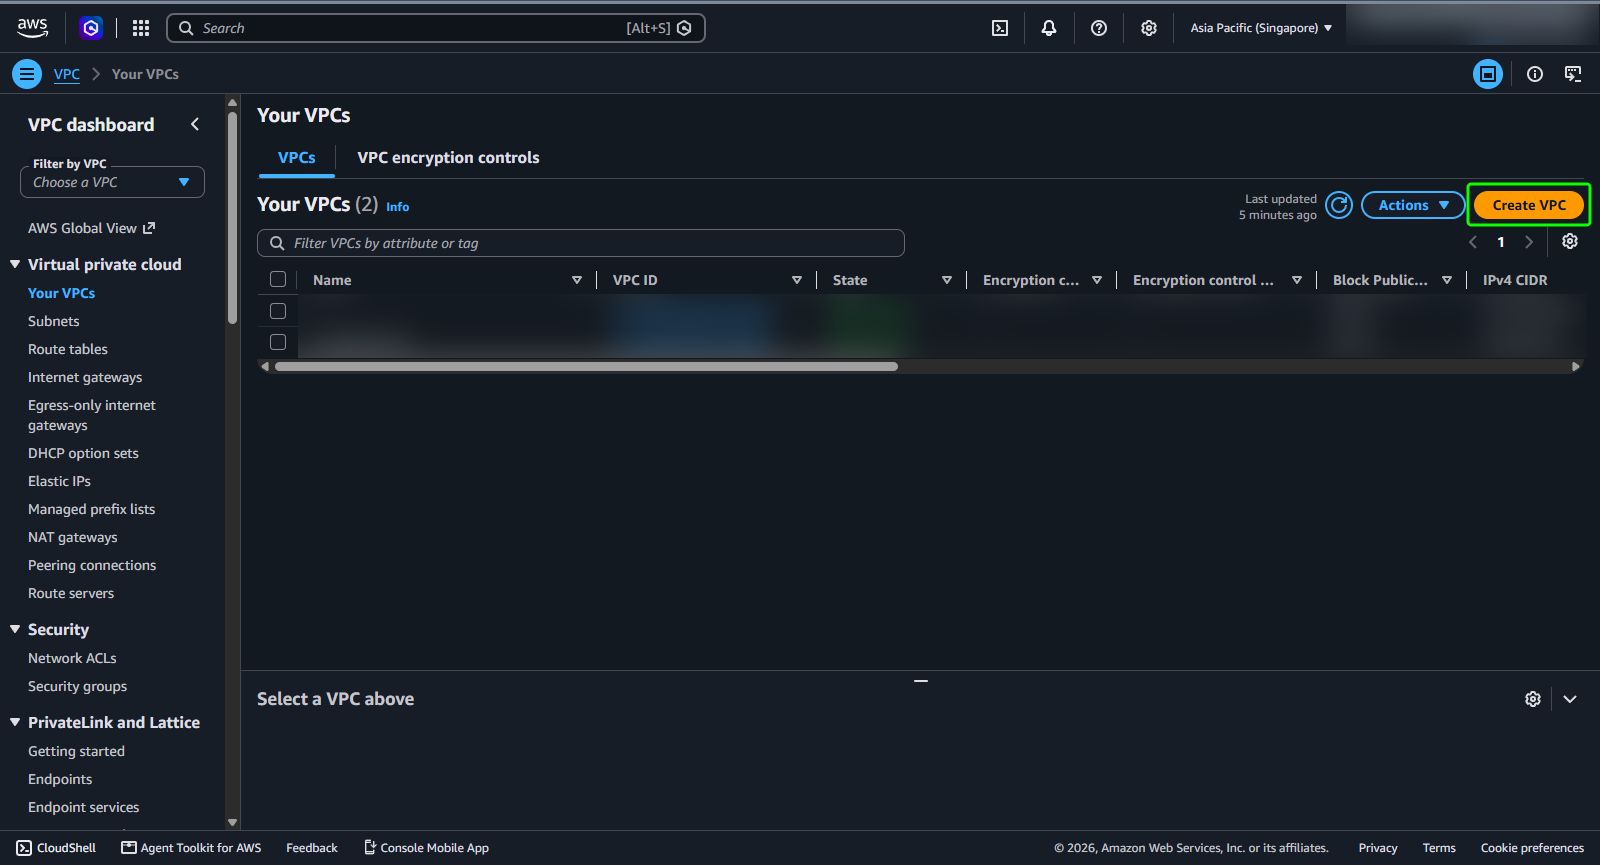
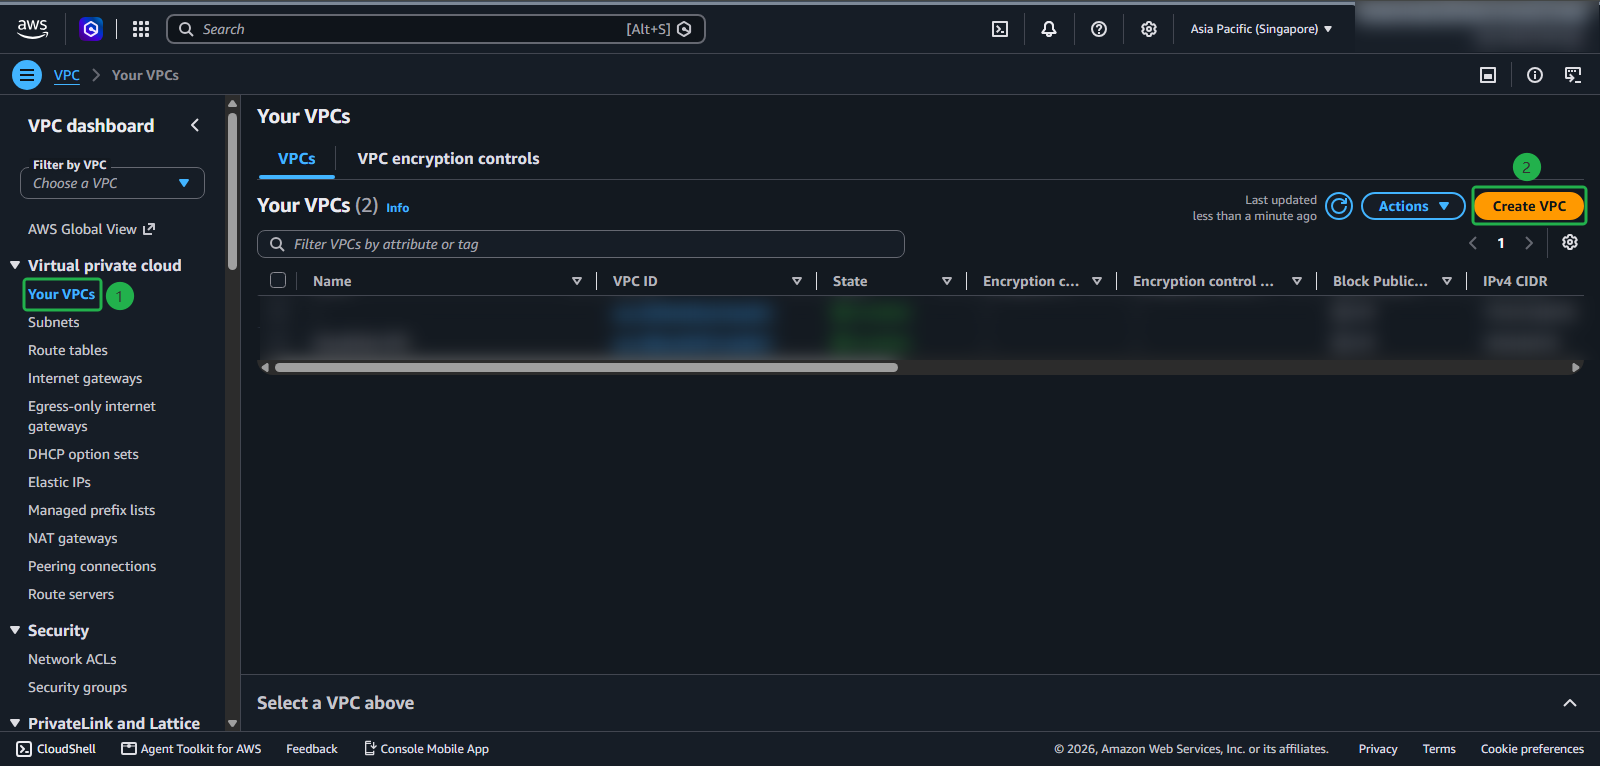
Redo 2.1 with new VPC and #22b14c annotations

diff --git a/content/2-preparation/2-2-createec2sg/_index.vi.md b/content/2-preparation/2-2-createec2sg/_index.vi.md
@@ -1,34 +1,71 @@
 ---
-title : "Tạo EC2 Security Group"
+title : "Tạo Security Group cho EC2"
 weight : 2
 chapter : false
 pre : " <b> 2.2. </b> "
 ---
 
+#### Tổng quan
 
-#### Tạo EC2 security group bằng  giao diện AWS console:  
-1. Truy cập giao diện [EC2 console](https://us-east-1.console.aws.amazon.com/ec2/home?region=us-east-1#Home:).
-2. Chọn **Security Groups**.
-3. Chọn **Create Security Group**.
+Ở bước này, bạn tạo hai security group cho các EC2 instance:
 
-    ![Create EC2 SG](/images/preparation/2/1.png)
+| Security group | Gắn vào | Inbound rule |
+|---|---|---|
+| `bastion-sg` | Bastion host | SSH (22) từ **My IP** |
+| `app-sg` | App server | SSH (22) từ **bastion-sg** |
 
-4. Tại mục **VPC**, chọn VPC bạn muốn tạo security group.
-5. Tại mục **Security group name**, nhập tên cho security group.
-6. Tại mục **Description**, nhập mô tả cho security group.
+Chỉ máy tính của bạn kết nối được tới bastion host, và chỉ bastion host kết nối được tới App server.
 
-    ![Create EC2 SG](/images/preparation/2/2.png)
+{{% notice info %}}
+`app-sg` dùng **một security group khác làm nguồn** thay vì địa chỉ IP. Mọi instance được gắn `bastion-sg` đều được phép kết nối, kể cả khi địa chỉ IP của instance đó thay đổi.
+{{% /notice %}}
 
-7. Cấu hình Inbound Rule
+#### Tạo bastion-sg
 
-    ![Create EC2 SG](/images/preparation/2/3.png)
+1. Mở [Amazon EC2 console](https://console.aws.amazon.com/ec2/), chọn **Security Groups** trong mục **Network & Security**, sau đó chọn **Create security group**.
 
-8. Cấu hình Outbound Rule
+    ![Create security group](/images/2-preparation/2.2/1.png)
 
-    ![Create EC2 SG](/images/preparation/2/4.png)
+2. Trong **Basic details**:
+    - (1) **Security group name**: `bastion-sg`
+    - (2) **Description**: `Allow SSH from my IP to bastion host`
+    - (3) **VPC**: `rdspg-lab-vpc`
 
-9. Click **Create**.
+    ![bastion-sg basic details](/images/2-preparation/2.2/2.png)
 
-    ![Create EC2 SG](/images/preparation/2/5.png)
+{{% notice warning %}}
+Ô **VPC** mặc định là VPC default. Hãy chắc chắn bạn chọn `rdspg-lab-vpc`. Tên và mô tả của security group không thể sửa sau khi tạo.
+{{% /notice %}}
 
-***Bạn đã tạo thành công security group cho EC2 instance.***
+3. Trong **Inbound rules**, chọn **Add rule**: (1) **Type**: `SSH`, (2) **Source type**: `My IP`.
+
+    ![bastion-sg inbound rule](/images/2-preparation/2.2/3.png)
+
+4. (1) Giữ mặc định **Outbound rules**. (2) Chọn **Create security group**.
+
+    ![bastion-sg outbound rule](/images/2-preparation/2.2/4.png)
+
+5. `bastion-sg` đã được tạo.
+
+    ![bastion-sg created](/images/2-preparation/2.2/5.png)
+
+{{% notice tip %}}
+Địa chỉ IP công khai của bạn có thể thay đổi. Nếu sau này không SSH được vào bastion host, hãy sửa inbound rule này và chọn lại **My IP**.
+{{% /notice %}}
+
+#### Tạo app-sg
+
+6. Chọn **Create security group** một lần nữa. Trong **Basic details**:
+    - (1) **Security group name**: `app-sg`
+    - (2) **Description**: `Allow SSH from bastion host to app server`
+    - (3) **VPC**: `rdspg-lab-vpc`
+
+    ![app-sg basic details](/images/2-preparation/2.2/6.png)
+
+7. Trong **Inbound rules**, chọn **Add rule**: (1) **Type**: `SSH`, (2) **Source type**: `Custom`, (3) **Source**: chọn `bastion-sg`.
+
+    ![app-sg inbound rule](/images/2-preparation/2.2/7.png)
+
+8. Giữ mặc định outbound rules và chọn **Create security group**. Inbound rule của `app-sg` chỉ cho phép SSH từ `bastion-sg`.
+
+    ![app-sg created](/images/2-preparation/2.2/8.png)

diff --git a/content/2-preparation/2-2-createec2sg/_index.md b/content/2-preparation/2-2-createec2sg/_index.md
@@ -1,36 +1,71 @@
 ---
-title : "Create EC2 Security Group"
+title : "Create EC2 Security Groups"
 weight : 2
 chapter : false
 pre : " <b> 2.2. </b> "
 ---
 
+#### Overview
 
+In this step, you create two security groups for the EC2 instances:
 
-#### To create an EC2 security group in the AWS console:
+| Security group | Attached to | Inbound rule |
+|---|---|---|
+| `bastion-sg` | Bastion host | SSH (22) from **My IP** |
+| `app-sg` | App server | SSH (22) from **bastion-sg** |
 
-1. Go to the [EC2 console](https://us-east-1.console.aws.amazon.com/ec2/home?region=us-east-1#Home:).
-2. In the navigation pane, choose **Security Groups**.
-3. Choose Create Security Group.
+Only your computer can reach the bastion host, and only the bastion host can reach the App server.
 
-    ![Create EC2 SG](/images/preparation/2/1.png)
+{{% notice info %}}
+`app-sg` uses another **security group as the source** instead of an IP address. Any instance that has `bastion-sg` attached is allowed, even if its IP address changes.
+{{% /notice %}}
 
-4. For **VPC**, choose the VPC where you want to create the security group.
-5. For **Security group name**, enter a descriptive name for the security group.
-6. For **Description**, enter a description for the security group.
+#### Create bastion-sg
 
-    ![Create EC2 SG](/images/preparation/2/2.png)
+1. Open the [Amazon EC2 console](https://console.aws.amazon.com/ec2/), choose **Security Groups** under **Network & Security**, then choose **Create security group**.
 
-7. Modify Inbound Rule
+    ![Create security group](/images/2-preparation/2.2/1.png)
 
-    ![Create EC2 SG](/images/preparation/2/3.png)
+2. In **Basic details**:
+    - (1) **Security group name**: `bastion-sg`
+    - (2) **Description**: `Allow SSH from my IP to bastion host`
+    - (3) **VPC**: `rdspg-lab-vpc`
 
-8. Modify Outbound Rule
+    ![bastion-sg basic details](/images/2-preparation/2.2/2.png)
 
-    ![Create EC2 SG](/images/preparation/2/4.png)
+{{% notice warning %}}
+The **VPC** field defaults to your default VPC. Make sure you choose `rdspg-lab-vpc`. The security group name and description cannot be changed after creation.
+{{% /notice %}}
 
-9. Click **Create**.
+3. In **Inbound rules**, choose **Add rule**: (1) **Type**: `SSH`, (2) **Source type**: `My IP`.
 
-    ![Create EC2 SG](/images/preparation/2/5.png)
+    ![bastion-sg inbound rule](/images/2-preparation/2.2/3.png)
 
-Once you have created the security group for EC2 instances
+4. (1) Keep the default **Outbound rules**. (2) Choose **Create security group**.
+
+    ![bastion-sg outbound rule](/images/2-preparation/2.2/4.png)
+
+5. `bastion-sg` is created.
+
+    ![bastion-sg created](/images/2-preparation/2.2/5.png)
+
+{{% notice tip %}}
+Your public IP address may change. If you later cannot connect to the bastion host over SSH, edit this inbound rule and choose **My IP** again.
+{{% /notice %}}
+
+#### Create app-sg
+
+6. Choose **Create security group** again. In **Basic details**:
+    - (1) **Security group name**: `app-sg`
+    - (2) **Description**: `Allow SSH from bastion host to app server`
+    - (3) **VPC**: `rdspg-lab-vpc`
+
+    ![app-sg basic details](/images/2-preparation/2.2/6.png)
+
+7. In **Inbound rules**, choose **Add rule**: (1) **Type**: `SSH`, (2) **Source type**: `Custom`, (3) **Source**: choose `bastion-sg`.
+
+    ![app-sg inbound rule](/images/2-preparation/2.2/7.png)
+
+8. Keep the default outbound rules and choose **Create security group**. The inbound rule of `app-sg` allows SSH only from `bastion-sg`.
+
+    ![app-sg created](/images/2-preparation/2.2/8.png)

diff --git a/content/2-preparation/2-3-createrdssg/_index.vi.md b/content/2-preparation/2-3-createrdssg/_index.vi.md
@@ -1,33 +1,42 @@
 ---
-title : "Tạo RDS Security Group"
+title : "Tạo Security Group cho RDS"
 weight : 3
 chapter : false
 pre : " <b> 2.3. </b> "
 ---
 
+#### Tổng quan
 
-#### Tạo EC2 security group bằng giao diện AWS console:
+Ở bước này, bạn tạo `rds-sg` cho Amazon RDS for PostgreSQL. Security group này chỉ cho phép kết nối PostgreSQL (cổng **5432**) từ hai nguồn:
 
-1. Truy cập giao diện [EC2 console](https://us-east-1.console.aws.amazon.com/ec2/home?region=us-east-1#Home:).
-2. Tại bảng điều hướng, chọn **Security Groups**.
-3. Chọn **Create Security Group**.
+| Nguồn | Lý do |
+|---|---|
+| `app-sg` | App server kết nối tới database bằng `psql` |
+| `bastion-sg` | pgAdmin trên máy bạn kết nối qua SSH tunnel, nên kết nối tới RDS xuất phát từ bastion host |
 
-    ![Create EC2 SG](/images/preparation/2/1.png)
+{{% notice info %}}
+`rds-sg` không cho phép bất kỳ địa chỉ IP nào, kể cả IP của bạn. Máy tính của bạn chỉ tới được database thông qua bastion host.
+{{% /notice %}}
 
-4. Tại mục **VPC**, chọn VPC bạn muốn tạo security group.
-5. Tại mục **Security group name**, nhập tên cho security group.
-6. Tại mục **Description**, nhập mô tả cho security group.
+#### Tạo rds-sg
 
-    ![Create EC2 SG](/images/preparation/3/1.png)
+1. Trong [Amazon EC2 console](https://console.aws.amazon.com/ec2/), chọn **Security Groups**, sau đó chọn **Create security group**. Trong **Basic details**:
+    - (1) **Security group name**: `rds-sg`
+    - (2) **Description**: `Allow PostgreSQL from app server and bastion host`
+    - (3) **VPC**: `rdspg-lab-vpc`
 
-7. Cấu hình Inbound Rule
+    ![rds-sg basic details](/images/2-preparation/2.3/1.png)
 
-8. Cấu hình Outbound Rule
+2. Trong **Inbound rules**, thêm hai rule:
+    - (1) **Type**: `PostgreSQL`, **Source type**: `Custom`, **Source**: `app-sg`
+    - (2) **Type**: `PostgreSQL`, **Source type**: `Custom`, **Source**: `bastion-sg`
 
-    ![Create EC2 SG](/images/preparation/3/3.png)
+    ![rds-sg inbound rules](/images/2-preparation/2.3/2.png)
 
-9. Click **Create**.
+{{% notice note %}}
+Khi chọn type **PostgreSQL**, protocol tự động là TCP và cổng là 5432.
+{{% /notice %}}
 
-    ![Create EC2 SG](/images/preparation/3/4.png)
+3. Giữ mặc định outbound rules và chọn **Create security group**. `rds-sg` có hai inbound rule trên cổng 5432.
 
-***Bạn đã tạo thành công security group cho EC2 instance.***
+    ![rds-sg created](/images/2-preparation/2.3/3.png)

diff --git a/content/2-preparation/2-1-createvpc/_index.vi.md b/content/2-preparation/2-1-createvpc/_index.vi.md
@@ -21,36 +21,42 @@ Workshop này **không** dùng NAT gateway vì NAT gateway tính phí theo giờ
 
 #### Tạo VPC
 
-1. Mở [Amazon VPC console](https://console.aws.amazon.com/vpc/), chọn **Your VPCs**, sau đó chọn **Create VPC**.
+1. Mở [Amazon VPC console](https://console.aws.amazon.com/vpc/):
+    - (1) Chọn **Your VPCs**.
+    - (2) Chọn **Create VPC**.
 
     ![Create VPC](/images/2-preparation/2.1/1.png)
 
 2. Trong **VPC settings**:
     - (1) Tại **Resources to create**, chọn **VPC and more**.
     - (2) Tại **Name tag auto-generation**, giữ **Auto-generate** và nhập `rdspg-lab`.
-    - (3) Tại **IPv4 CIDR block**, nhập `10.0.0.0/16`. Tại **IPv6 CIDR block**, chọn **No IPv6 CIDR block**.
-    - Giữ **Tenancy** là **Default** và không thay đổi **Encryption settings**.
+    - (3) Tại **IPv4 CIDR block**, nhập `10.0.0.0/16`.
+    - (4) Tại **IPv6 CIDR block**, chọn **No IPv6 CIDR block**.
+    - (5) Giữ **Tenancy** là **Default**. Không thay đổi **Encryption settings**.
 
     ![VPC settings](/images/2-preparation/2.1/2.png)
 
-3. Cấu hình subnet và kết nối:
+3. Cấu hình subnet và NAT gateway:
     - (1) **Number of Availability Zones (AZs)**: `2`
     - (2) **Number of public subnets**: `2`
     - (3) **Number of private subnets**: `2`
     - (4) **NAT gateways**: **None**
-    - (5) **VPC endpoints**: **S3 Gateway**
 
-    ![Subnets and connections](/images/2-preparation/2.1/3.png)
+    ![Subnets and NAT gateways](/images/2-preparation/2.1/3.png)
 
-4. (1) Tại **DNS options**, giữ chọn cả **Enable DNS hostnames** và **Enable DNS resolution**. (2) Chọn **Create VPC**.
+4. Hoàn tất cấu hình:
+    - (1) **VPC endpoints**: **S3 Gateway**
+    - (2) **DNS options**: giữ chọn cả **Enable DNS hostnames** và **Enable DNS resolution**.
+    - (3) Chọn **Create VPC**.
 
-    ![DNS options](/images/2-preparation/2.1/4.png)
+    ![VPC endpoints and DNS options](/images/2-preparation/2.1/4.png)
 
 {{% notice note %}}
 Cả hai tùy chọn DNS đều bắt buộc. Bạn kết nối tới Amazon RDS qua **endpoint**, là một tên miền dạng `xxx.rds.amazonaws.com`, không phải địa chỉ IP.
 {{% /notice %}}
 
-5. Đợi đến khi tất cả các bước hiển thị **Success**, sau đó chọn **View VPC**.
+5. Đợi đến khi tất cả các bước hiển thị **Success**:
+    - (1) Chọn **View VPC**.
 
     ![Create VPC workflow](/images/2-preparation/2.1/5.png)
 

diff --git a/content/2-preparation/2-3-createrdssg/_index.md b/content/2-preparation/2-3-createrdssg/_index.md
@@ -5,31 +5,38 @@ chapter : false
 pre : " <b> 2.3. </b> "
 ---
 
+#### Overview
 
-#### To create an EC2 security group in the AWS console:
+In this step, you create `rds-sg` for the Amazon RDS for PostgreSQL instance. It allows PostgreSQL connections (port **5432**) only from two sources:
 
-1. Go to the [EC2 console](https://us-east-1.console.aws.amazon.com/ec2/home?region=us-east-1#Home:).
-2. In the navigation pane, choose **Security Groups**.
-3. Choose Create Security Group.
+| Source | Reason |
+|---|---|
+| `app-sg` | The App server connects to the database with `psql` |
+| `bastion-sg` | pgAdmin on your computer connects through an SSH tunnel, so the connection reaches RDS from the bastion host |
 
-    ![Create EC2 SG](/images/preparation/2/1.png)
+{{% notice info %}}
+`rds-sg` does not allow any IP address, including your own. Your computer reaches the database only through the bastion host.
+{{% /notice %}}
 
-4. For **VPC**, choose the VPC where you want to create the security group.
-5. For **Security group name**, enter a descriptive name for the security group.
-6. For **Description**, enter a description for the security group.
-    
-    ![Create EC2 SG](/images/preparation/3/1.png)
+#### Create rds-sg
 
-7. Modify Inbound Rule
+1. In the [Amazon EC2 console](https://console.aws.amazon.com/ec2/), choose **Security Groups**, then choose **Create security group**. In **Basic details**:
+    - (1) **Security group name**: `rds-sg`
+    - (2) **Description**: `Allow PostgreSQL from app server and bastion host`
+    - (3) **VPC**: `rdspg-lab-vpc`
 
-    ![Create EC2 SG](/images/preparation/3/2.png)
+    ![rds-sg basic details](/images/2-preparation/2.3/1.png)
 
-8. Modify Outbound Rule
+2. In **Inbound rules**, add two rules:
+    - (1) **Type**: `PostgreSQL`, **Source type**: `Custom`, **Source**: `app-sg`
+    - (2) **Type**: `PostgreSQL`, **Source type**: `Custom`, **Source**: `bastion-sg`
 
-    ![Create EC2 SG](/images/preparation/3/3.png)
+    ![rds-sg inbound rules](/images/2-preparation/2.3/2.png)
 
-9. Click **Create**.
+{{% notice note %}}
+When you choose the **PostgreSQL** type, the protocol is set to TCP and the port to 5432 automatically.
+{{% /notice %}}
 
-    ![Create EC2 SG](/images/preparation/3/4.png)
+3. Keep the default outbound rules and choose **Create security group**. `rds-sg` now has two inbound rules on port 5432.
 
-Once you have created the security group for RDS PostgreSQL
+    ![rds-sg created](/images/2-preparation/2.3/3.png)

diff --git a/content/2-preparation/2-1-createvpc/_index.md b/content/2-preparation/2-1-createvpc/_index.md
@@ -21,36 +21,42 @@ This workshop does **not** use a NAT gateway, because a NAT gateway is charged p
 
 #### Create the VPC
 
-1. Open the [Amazon VPC console](https://console.aws.amazon.com/vpc/), choose **Your VPCs**, then choose **Create VPC**.
+1. Open the [Amazon VPC console](https://console.aws.amazon.com/vpc/):
+    - (1) Choose **Your VPCs**.
+    - (2) Choose **Create VPC**.
 
     ![Create VPC](/images/2-preparation/2.1/1.png)
 
 2. In **VPC settings**:
     - (1) For **Resources to create**, choose **VPC and more**.
     - (2) For **Name tag auto-generation**, keep **Auto-generate** selected and enter `rdspg-lab`.
-    - (3) For **IPv4 CIDR block**, enter `10.0.0.0/16`. For **IPv6 CIDR block**, choose **No IPv6 CIDR block**.
-    - Keep **Tenancy** as **Default** and leave **Encryption settings** unchanged.
+    - (3) For **IPv4 CIDR block**, enter `10.0.0.0/16`.
+    - (4) For **IPv6 CIDR block**, choose **No IPv6 CIDR block**.
+    - (5) Keep **Tenancy** as **Default**. Leave **Encryption settings** unchanged.
 
     ![VPC settings](/images/2-preparation/2.1/2.png)
 
-3. Configure the subnets and connections:
+3. Configure the subnets and NAT gateways:
     - (1) **Number of Availability Zones (AZs)**: `2`
     - (2) **Number of public subnets**: `2`
     - (3) **Number of private subnets**: `2`
     - (4) **NAT gateways**: **None**
-    - (5) **VPC endpoints**: **S3 Gateway**
 
-    ![Subnets and connections](/images/2-preparation/2.1/3.png)
+    ![Subnets and NAT gateways](/images/2-preparation/2.1/3.png)
 
-4. (1) In **DNS options**, keep both **Enable DNS hostnames** and **Enable DNS resolution** selected. (2) Choose **Create VPC**.
+4. Finish the configuration:
+    - (1) **VPC endpoints**: **S3 Gateway**
+    - (2) **DNS options**: keep both **Enable DNS hostnames** and **Enable DNS resolution** selected.
+    - (3) Choose **Create VPC**.
 
-    ![DNS options](/images/2-preparation/2.1/4.png)
+    ![VPC endpoints and DNS options](/images/2-preparation/2.1/4.png)
 
 {{% notice note %}}
 Both DNS options are required. You connect to Amazon RDS through its **endpoint**, which is a DNS name such as `xxx.rds.amazonaws.com`, not an IP address.
 {{% /notice %}}
 
-5. Wait until every step shows **Success**, then choose **View VPC**.
+5. Wait until every step shows **Success**:
+    - (1) Choose **View VPC**.
 
     ![Create VPC workflow](/images/2-preparation/2.1/5.png)
 
